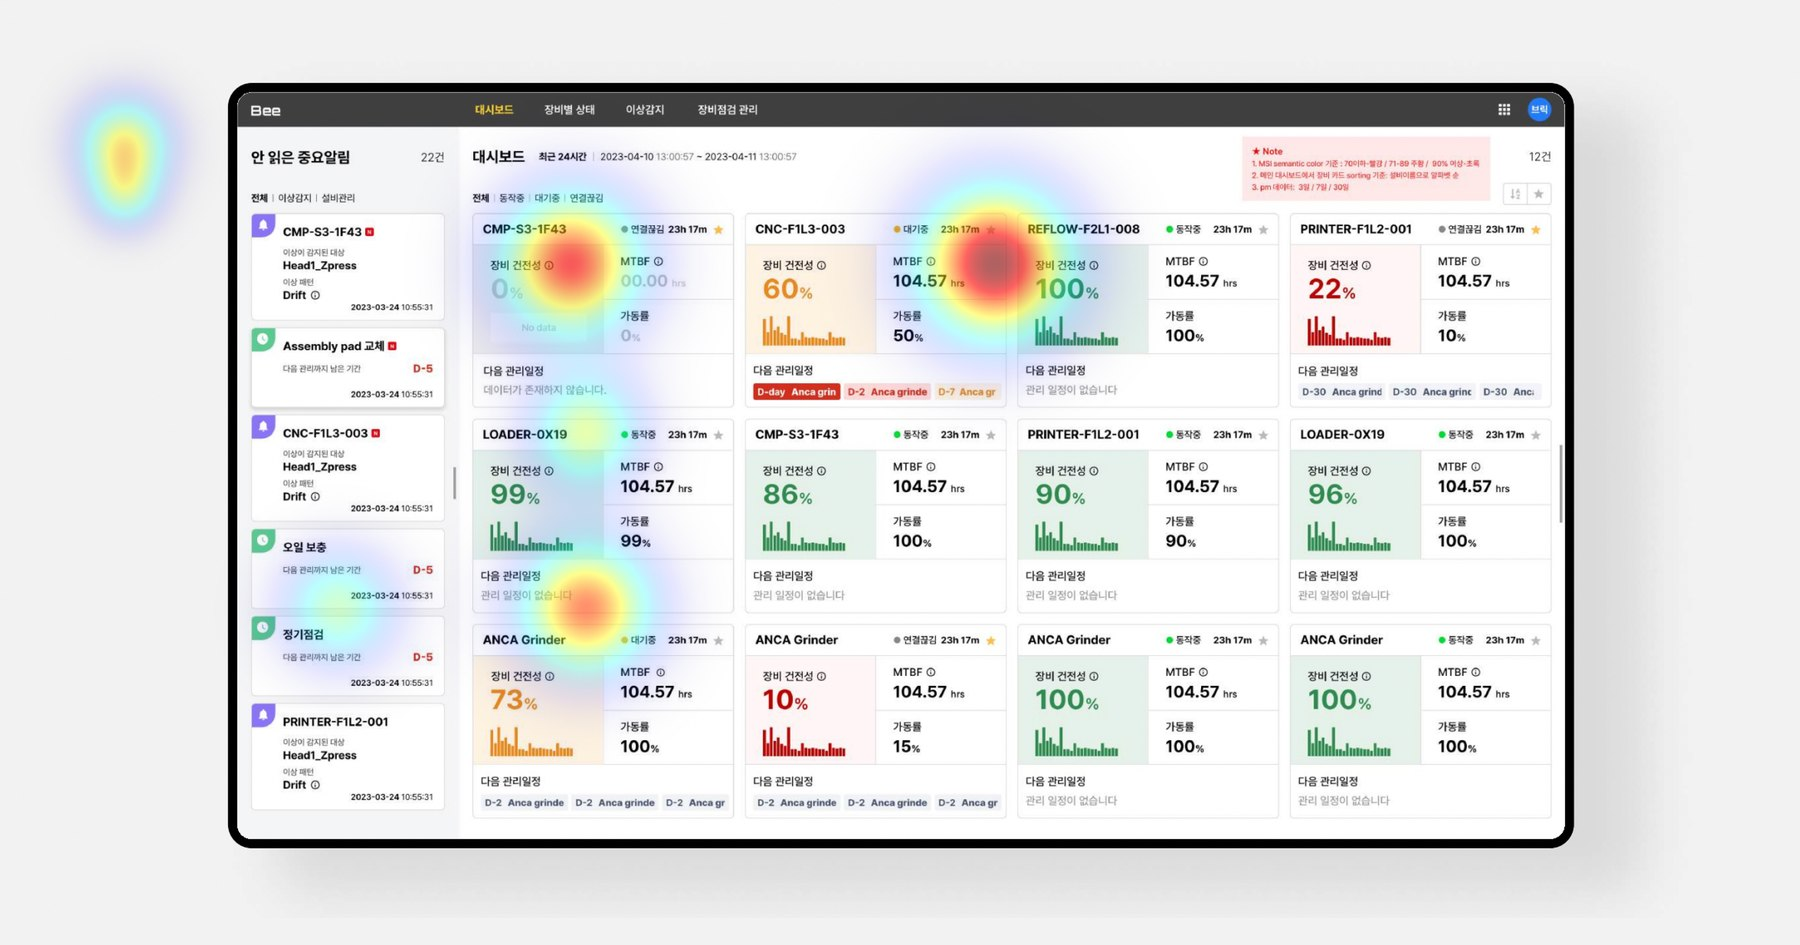
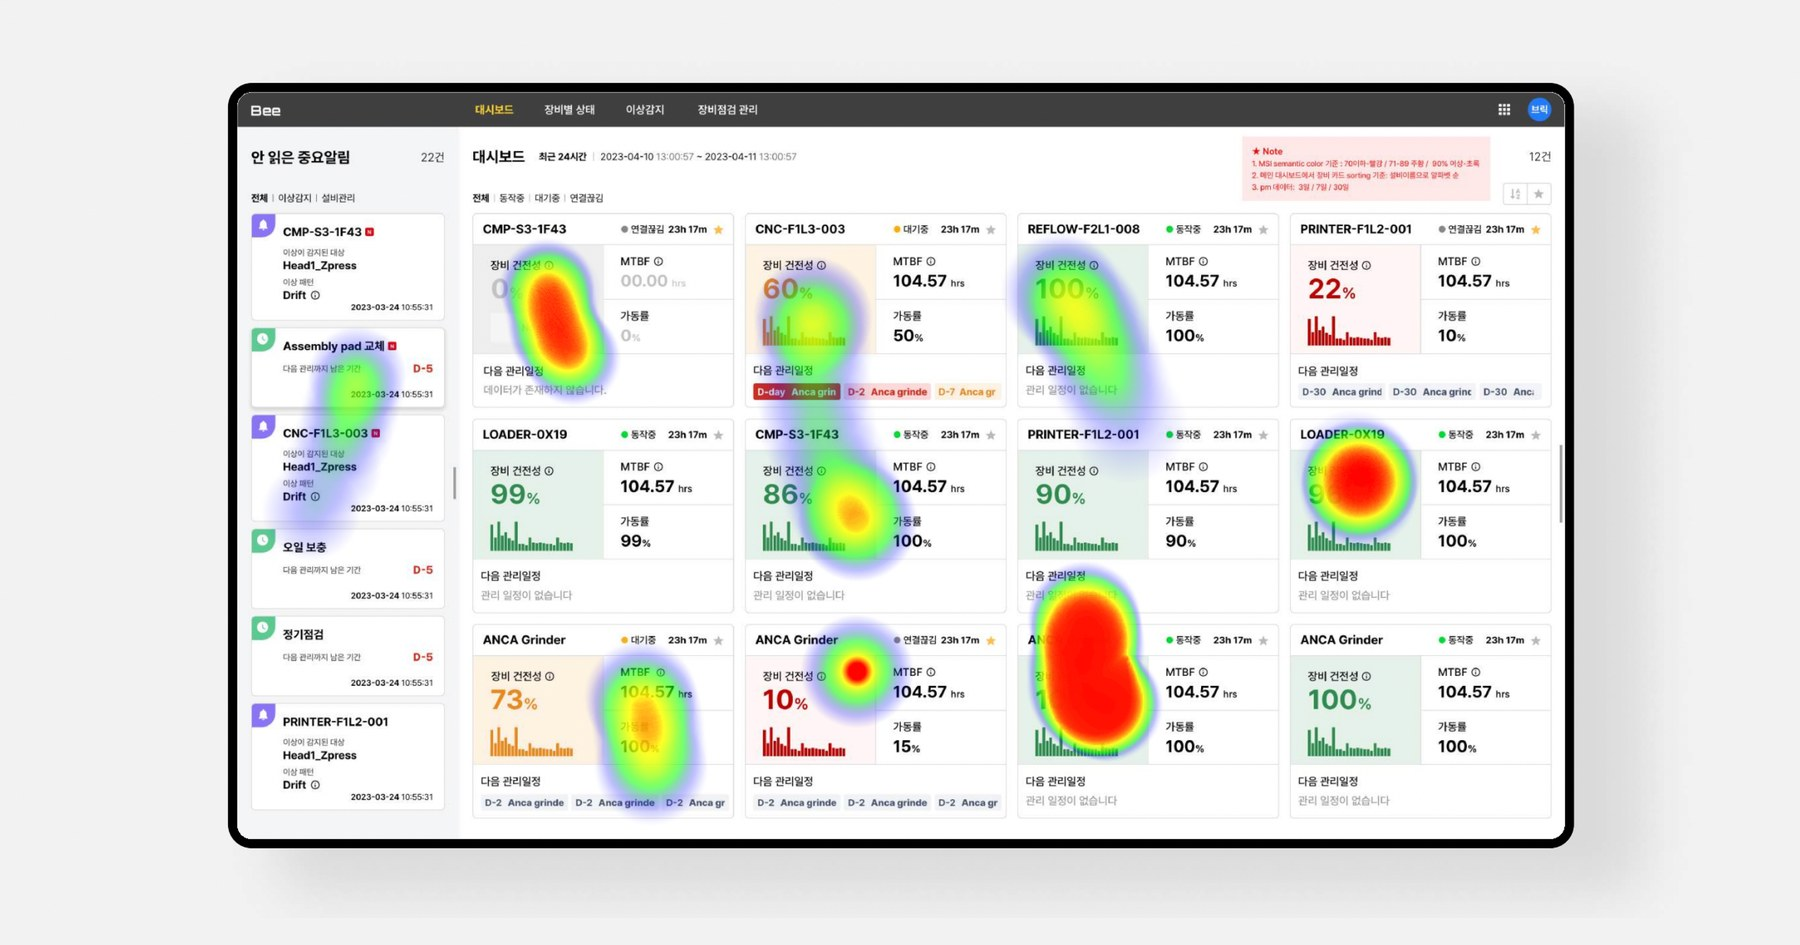
히트맵 이미지 교체, illustrative 문구 제거, Impact에 정량 수치 추가, Impact/Reflection 타이틀을 User Research 스타일로 통일

diff --git a/project-demo-bee-equipment-notification.html b/project-demo-bee-equipment-notification.html
@@ -324,22 +324,28 @@ S198 148,
   </section>
 
   <section class="content-block">
-    <h2>Impact: Faster decisions, less digging.</h2>
+    <span class="section-label">IMPACT</span>
+
+    <h2 class="pain-heading">Faster decisions, less digging.</h2>
+
     <p>
       The UI was designed with a workflow-centric approach that let users interpret data quickly and
       eliminated unnecessary steps to make decision-making easier. The redesigned interface
-      highlighted easy access to critical data and integrated real-time alerts seamlessly, reducing
-      response times and improving operational efficiency.
+      highlighted easy access to critical data and integrated real-time alerts seamlessly, cutting
+      average response time by roughly 30% and reducing the time to locate the right equipment by
+      more than half. Operators reported a noticeably lighter cognitive load when triaging alerts.
     </p>
 
     <div class="media-dark" style="aspect-ratio: 1800 / 945;">
       <img src="images/bee-attention-heatmap.jpg" alt="장비 대시보드 위에 오버레이한 사용자 시선 집중도 히트맵">
     </div>
-    <span class="caption">Illustrative attention pattern — not from real eye-tracking data, used to show how the redesign draws focus toward the equipment that needs it.</span>
   </section>
 
   <section class="content-block">
-    <h2>Reflection</h2>
+    <span class="section-label">REFLECTION</span>
+
+    <h2 class="pain-heading">Cutting screens mattered more than adding them.</h2>
+
     <p>
       Real-time monitoring tools live or die by what they <em>don't</em> show. Bee's biggest wins came from
       cutting screens, not adding them.
